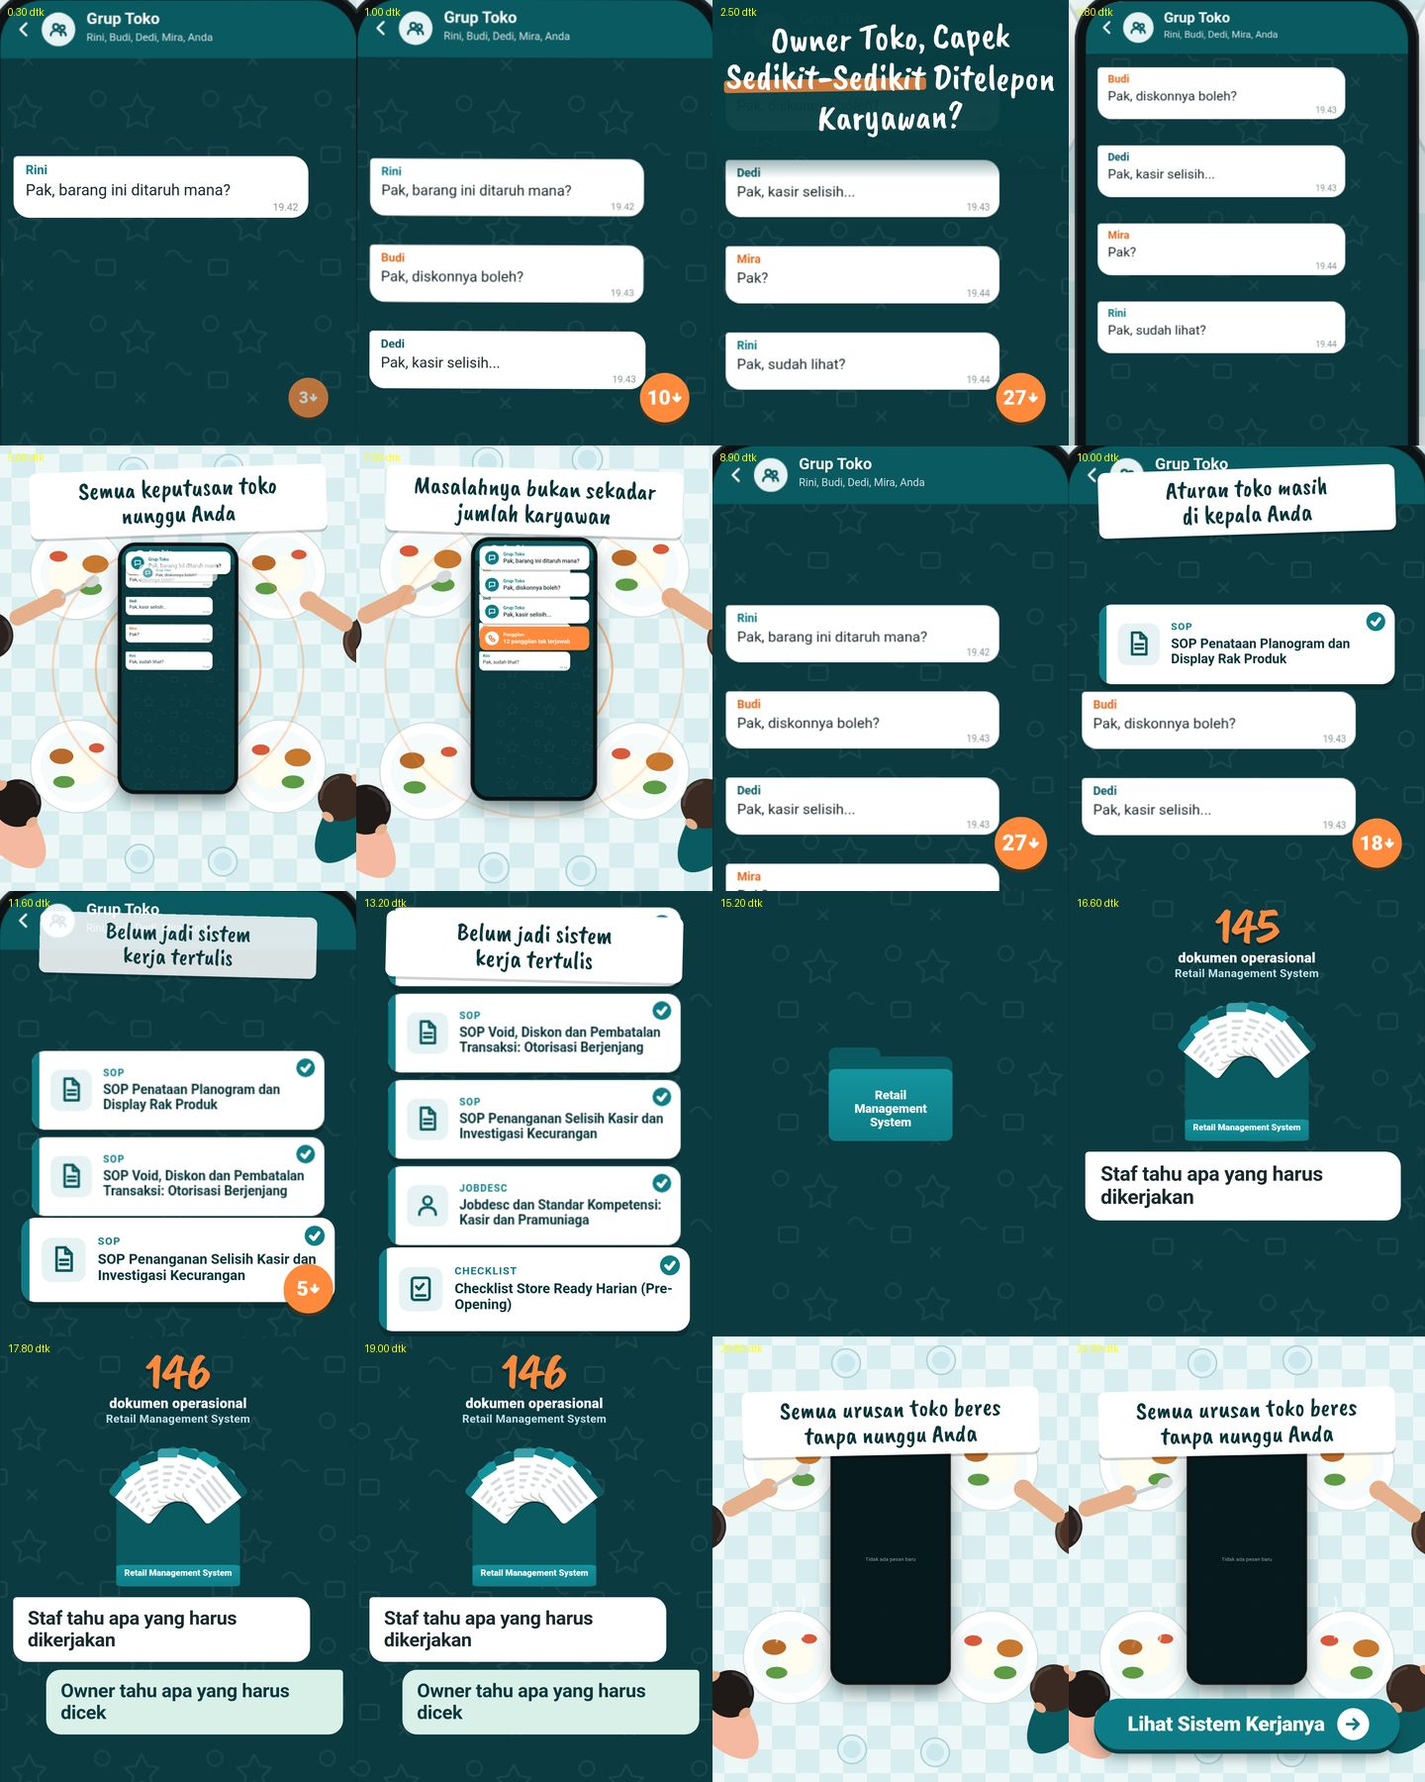
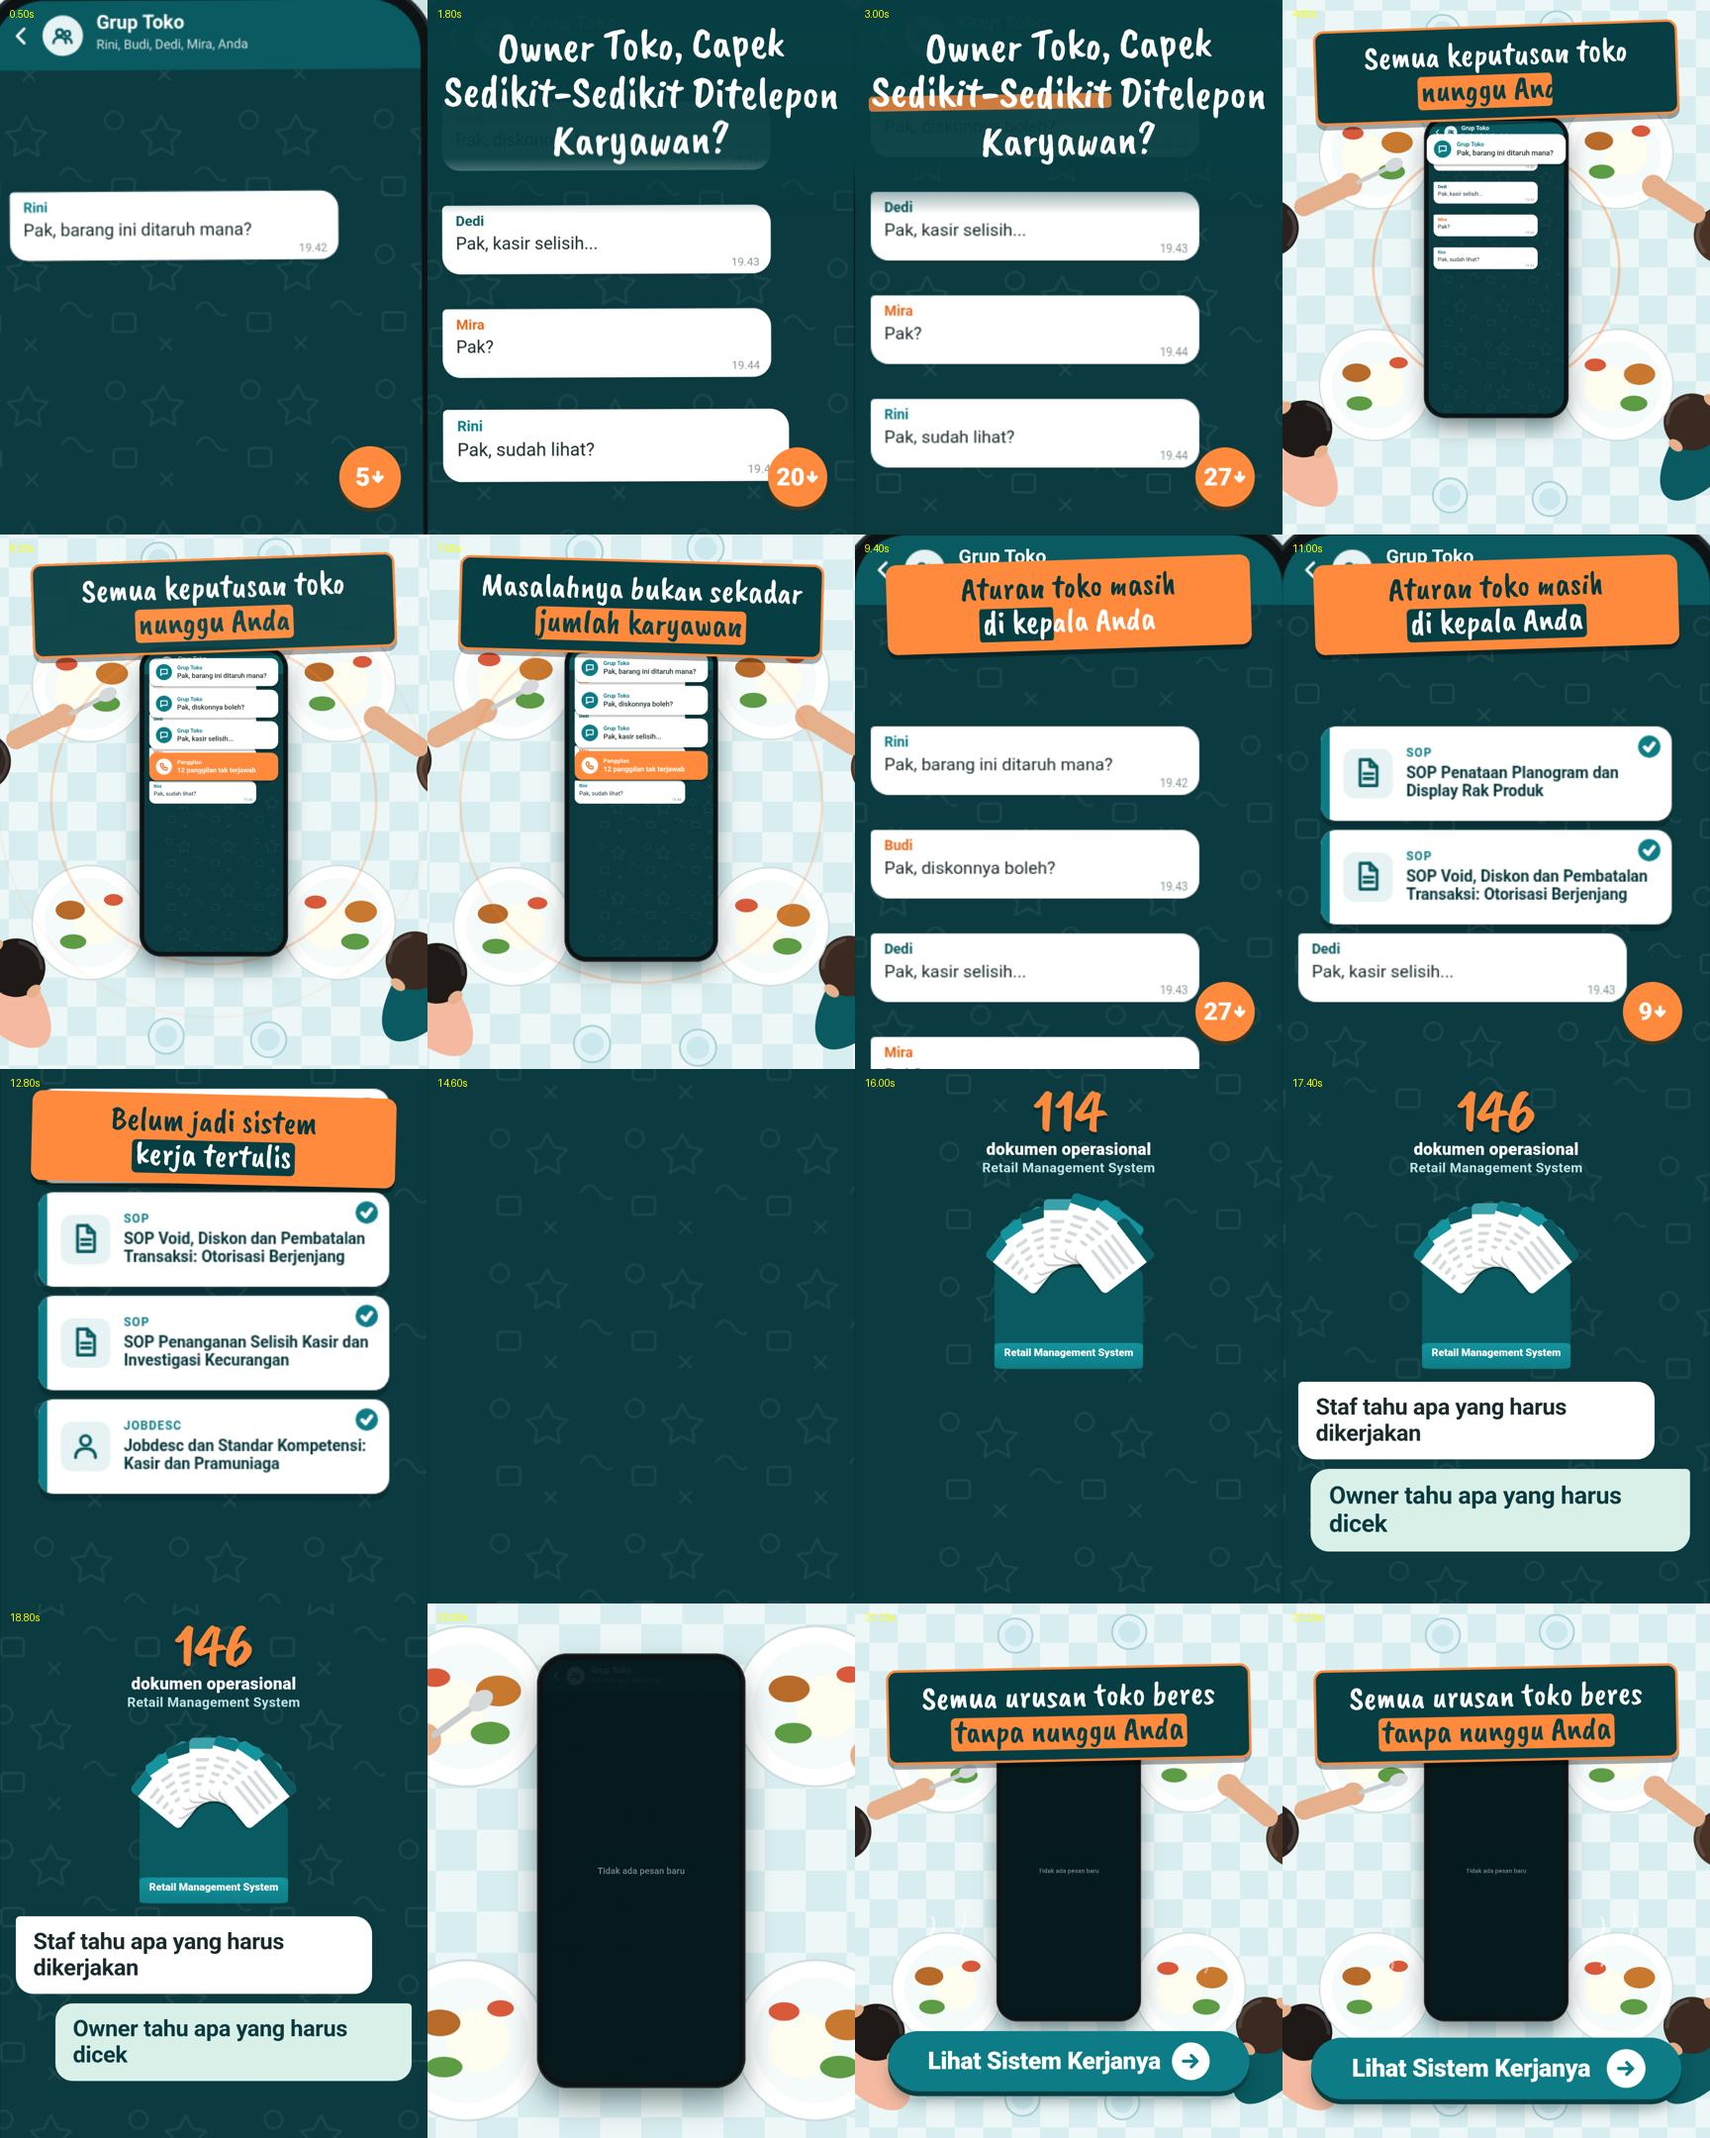
Promo 5: stiker teks kontras (panel gelap/jingga, kata kunci distabilo penuh)
Claude-Session: https://claude.ai/code/session_01UMN6b96XPFLNVTRhgm7URb

diff --git a/projects/promo-5-rms/index.html b/projects/promo-5-rms/index.html
@@ -85,9 +85,16 @@ html,body{width:100%;height:100%;background:#000;overflow:hidden;font-family:"Ro
 #hook .mk{position:relative;display:inline-block}
 #hook .mk i{position:absolute;left:-.05em;right:-.05em;bottom:.02em;height:.34em;background:var(--or);opacity:.8;border-radius:.08em;transform-origin:0 50%}
 #hook .mk span{position:relative}
-.stk{left:90px;right:90px;top:70px;padding:20px 28px 24px;background:#fff;border-radius:22px;text-align:center;font-size:76px;line-height:1.02;color:var(--ink);
-  box-shadow:0 8px 0 rgba(0,0,0,.18);opacity:0;transform-origin:50% 50%}
+.stk{left:80px;right:80px;top:64px;padding:22px 30px 30px;border-radius:26px;text-align:center;font-size:84px;line-height:1.04;
+  box-shadow:0 12px 0 rgba(0,0,0,.34);opacity:0;transform-origin:50% 50%}
 .stk .ln{display:block}
+.stk.dk{background:#073E43;color:#fff;border:6px solid #FF8A3D}
+.stk.or{background:#FF8A3D;color:#08363B}
+.kw{position:relative;display:inline-block}
+.kw i{position:absolute;left:-.1em;right:-.1em;top:.1em;bottom:-.06em;border-radius:.14em;transform-origin:0 50%}
+.kw span{position:relative}
+.dk .kw i{background:#FF8A3D}.dk .kw span{color:#073E43}
+.or .kw i{background:#073E43}.or .kw span{color:#fff}
 #badge{left:860px;top:1130px;width:150px;height:150px;border-radius:50%;background:var(--or);color:#fff;display:flex;align-items:center;justify-content:center;gap:2px;
   font:900 62px/1 Roboto;box-shadow:0 10px 0 rgba(120,50,0,.45);opacity:0}
 #badge svg{width:34px;height:34px;fill:none;stroke:#fff;stroke-width:6;stroke-linecap:round;stroke-linejoin:round}
@@ -138,14 +145,14 @@ html,body{width:100%;height:100%;background:#000;overflow:hidden;font-family:"Ro
       <div class="hl hw" style="top:296px"><span class="t">Karyawan?</span></div>
     </div>
     <div id="badge"><span id="bnum">3</span><svg viewBox="0 0 24 24"><path d="M12 4v15M5 12l7 7 7-7"/></svg></div>
-    <div class="stk hw" id="s1"><span class="ln"><span class="t">Semua keputusan toko</span></span><span class="ln"><span class="t">nunggu Anda</span></span></div>
-    <div class="stk hw" id="s2"><span class="ln"><span class="t">Masalahnya bukan sekadar</span></span><span class="ln"><span class="t">jumlah karyawan</span></span></div>
-    <div class="stk hw" id="s3"><span class="ln"><span class="t">Aturan toko masih</span></span><span class="ln"><span class="t">di kepala Anda</span></span></div>
-    <div class="stk hw" id="s4"><span class="ln"><span class="t">Belum jadi sistem</span></span><span class="ln"><span class="t">kerja tertulis</span></span></div>
+    <div class="stk hw dk" id="s1"><span class="ln"><span class="t">Semua keputusan toko</span></span><span class="ln"><span class="t"><span class="kw"><i></i><span>nunggu Anda</span></span></span></span></div>
+    <div class="stk hw dk" id="s2"><span class="ln"><span class="t">Masalahnya bukan sekadar</span></span><span class="ln"><span class="t"><span class="kw"><i></i><span>jumlah karyawan</span></span></span></span></div>
+    <div class="stk hw or" id="s3"><span class="ln"><span class="t">Aturan toko masih</span></span><span class="ln"><span class="t"><span class="kw"><i></i><span>di kepala Anda</span></span></span></span></div>
+    <div class="stk hw or" id="s4"><span class="ln"><span class="t">Belum jadi sistem</span></span><span class="ln"><span class="t"><span class="kw"><i></i><span>kerja tertulis</span></span></span></span></div>
     <div id="c146"><div class="nu hw" id="n146">0</div><div class="lb">dokumen operasional</div><div class="pn">Retail Management System</div></div>
     <div class="cb" id="cb1">Staf tahu apa yang harus dikerjakan</div>
     <div class="cb" id="cb2">Owner tahu apa yang harus dicek</div>
-    <div class="stk hw" id="s5"><span class="ln"><span class="t">Semua urusan toko beres</span></span><span class="ln"><span class="t">tanpa nunggu Anda</span></span></div>
+    <div class="stk hw dk" id="s5"><span class="ln"><span class="t">Semua urusan toko beres</span></span><span class="ln"><span class="t"><span class="kw"><i></i><span>tanpa nunggu Anda</span></span></span></span></div>
     <div id="btn"><span class="t" id="btnt">Lihat Sistem Kerjanya</span><div class="ar"><svg viewBox="0 0 40 40"><path d="M6 20 H31 M21 9 L32 20 L21 31"/></svg></div></div>
   </div>
 </div>
@@ -247,7 +254,9 @@ function render(t){
 const DURATION=22.5;
 const tl=gsap.timeline({paused:true});
 const pop=(el,at,{from=.5,dur=.4,ease='back.out(2.6)',y=0}={})=>tl.fromTo(el,{opacity:0,scale:from,y},{opacity:1,scale:1,y:0,duration:dur,ease,immediateRender:false},at);
-const sticker=(el,tin,tout,rot)=>{gsap.set(el,{rotation:rot});
+gsap.set($$('.kw i'),{scaleX:0});
+const sticker=(el,tin,tout,rot)=>{gsap.set(el,{rotation:rot});fit(el,900,84);
+  tl.to($('.kw i',el),{scaleX:1,duration:.4,ease:'power3.out'},tin+.45);
   tl.fromTo(el,{opacity:0,scale:.55,y:-40},{opacity:1,scale:1,y:0,duration:.45,ease:'back.out(2.4)',immediateRender:false},tin);
   if(tout)tl.to(el,{opacity:0,y:-120,duration:.3,ease:'power2.in'},tout);};
 
